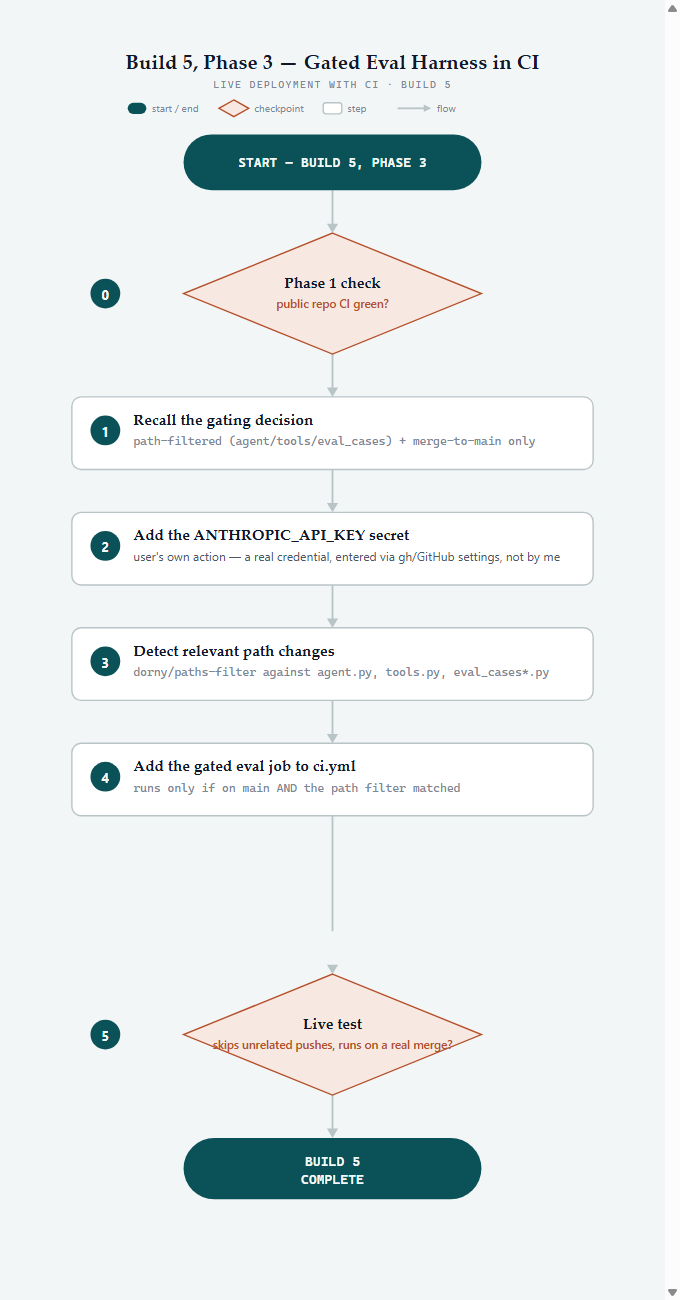
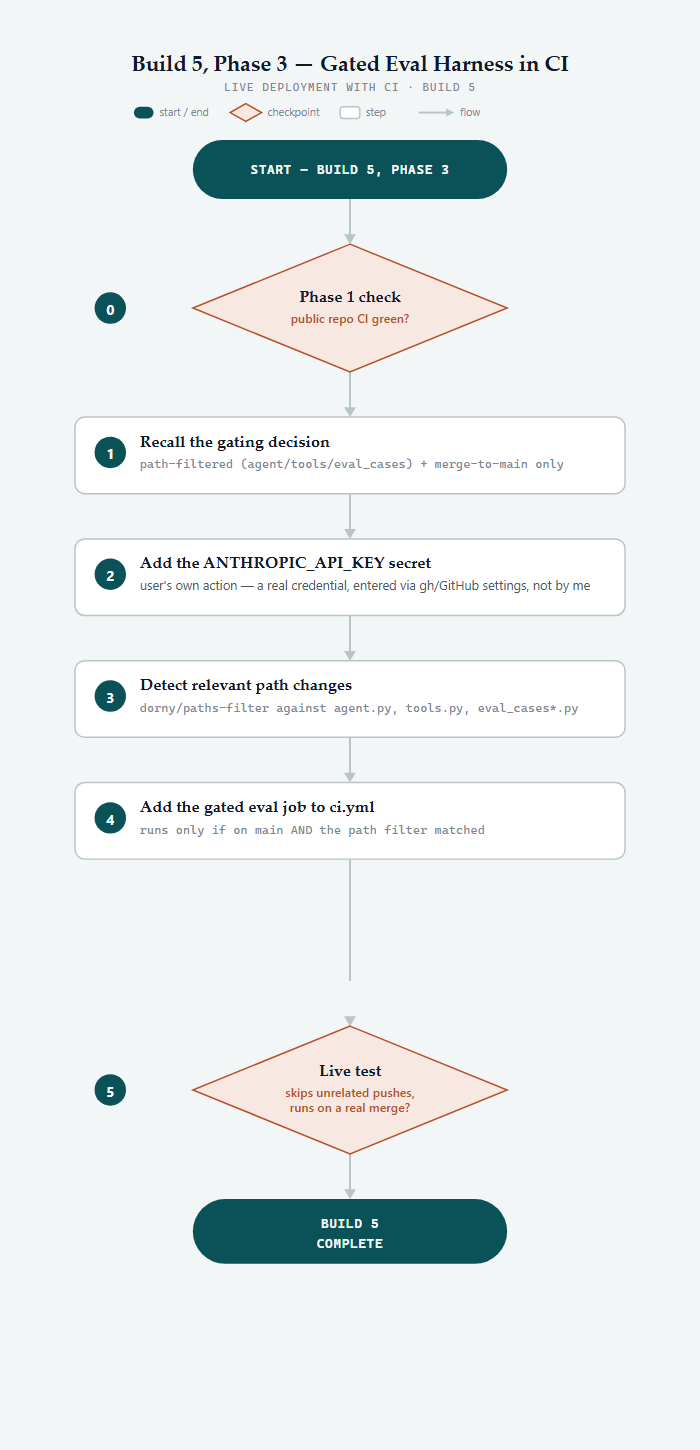
Fix Build 5 diamond text overflow, default the app screenshot open
Diamond 5's question ("skips unrelated pushes, runs on a real merge?")
was ~294px wide against ~246px available at that offset from the
diamond's center - split onto two lines at the same font size rather
than shrinking it out of visual consistency with the sibling diamond.
Same fix pattern as Build 1: edited both the SVG source and its HTML
viewer wrapper, regenerated the PNG via headless render, visually
re-verified before treating it as fixed.

The hero's "View screenshot" expander now defaults open and reads
"View app screenshot" - the live-demo proof is now visible on first
load instead of requiring a click.

diff --git a/index.html b/index.html
@@ -193,8 +193,8 @@
 <a class="btn btn-ghost" href="#work">See the system</a>
 <a class="btn btn-ghost" href="writing.html">Read the build log</a>
 </div>
-<details class="diagram">
-<summary>View screenshot</summary>
+<details class="diagram" open>
+<summary>View app screenshot</summary>
 <div class="diagram-body"><img alt="Screenshot of the live Ask-Your-Database Agent public demo answering 'What can you do?' with a real response describing its SQL query and schema-exploration capabilities against the appdb PostgreSQL database." src="live-demo-screenshot.png"/></div>
 </details>
 </div>
